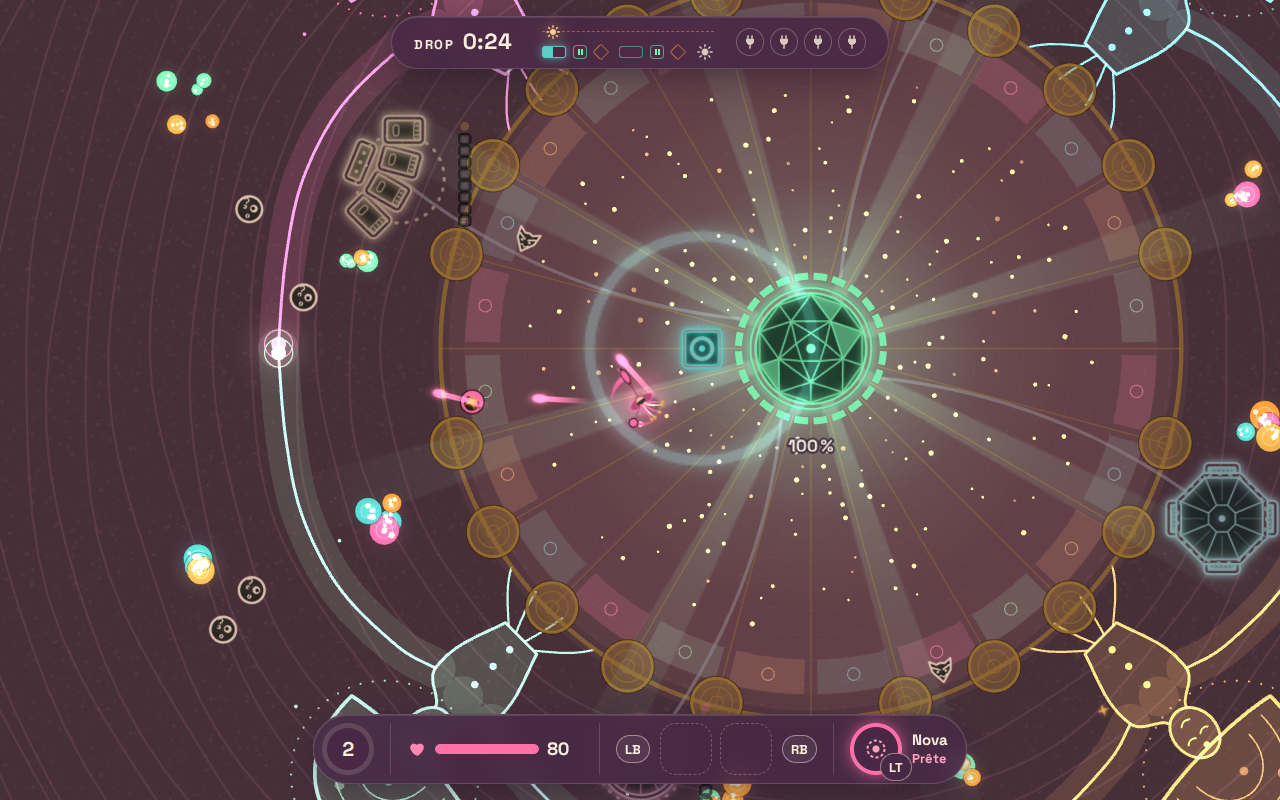
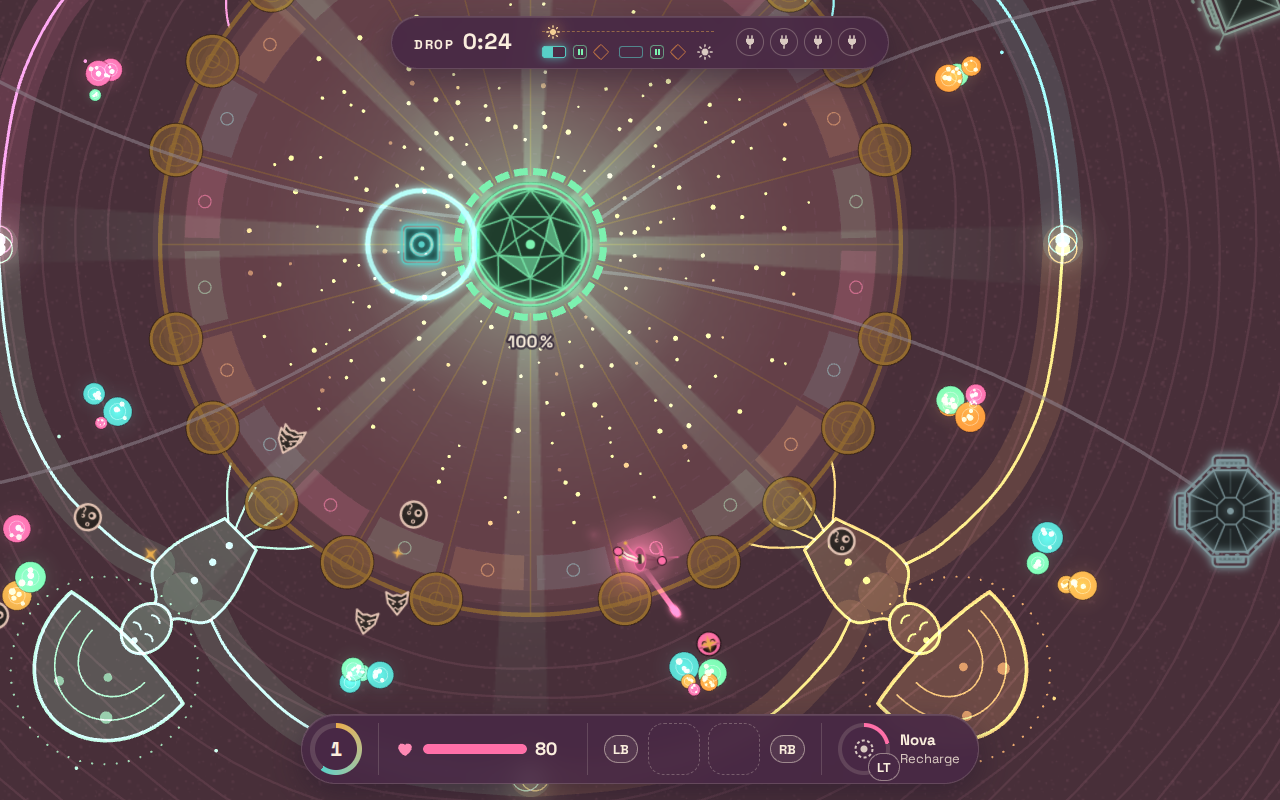
fix: see every Dome speaker whole, clear of the crown, the giants' arms and their hands
The drawn speaker reaches 2.2 times its collision radius (87 for a radius of 40, its LED column and
standby LED): too wide for the ring between the crown and the arms. The four speakers now stand 674
from the core, either side of the east and west entrances, beyond the arms. SPEAKER_REACH is shared
by the data tests, the render tests and the mushroom clusters, which keep off the drawn speakers.

Closes #340

diff --git a/src/render/giants-layout.test.ts b/src/render/giants-layout.test.ts
@@ -1,6 +1,17 @@
+import { Graphics } from 'pixi.js';
 import { describe, expect, it } from 'vitest';
-import { SETS } from '../data/sets';
-import { armPath, clearSpot, clusterReach, giantClusters, layGiants } from './giants-layout';
+import { SETS, SPEAKER_REACH } from '../data/sets';
+import { traceBody } from './giants-body';
+import {
+  type Point,
+  SCALE,
+  armPath,
+  clearSpot,
+  clusterReach,
+  giantClusters,
+  keepClear,
+  layGiants,
+} from './giants-layout';
 
 const dome = SETS.find((set) => set.id === 'dome');
 
@@ -48,9 +59,9 @@ describe('layGiants', () => {
     expect(stones).toHaveLength((dome?.obstacles?.length ?? 0) - posts);
   });
 
-  it('keeps two clusters per giant, clear of every speaker and obstacle', () => {
+  it('keeps two clusters per giant, clear of every drawn speaker and obstacle', () => {
     const center = { x: 800, y: 500 };
-    const avoid = [...(dome?.obstacles ?? []), ...(dome?.speakers ?? [])];
+    const avoid = dome === undefined ? [] : keepClear(dome);
 
     const clusters = giantClusters(layGiants(dome?.obstacles ?? [], center), center, avoid, 30);
 
@@ -70,5 +81,49 @@ describe('layGiants', () => {
     expect(clearSpot({ x: 500, y: 500 }, 60, [speaker])).toEqual({ x: 500, y: 500 });
     const moved = clearSpot({ x: 100, y: 100 }, 60, [speaker]);
     expect(Math.hypot(moved.x - 100, moved.y - 100)).toBeGreaterThanOrEqual(30 + clusterReach(60));
+  });
+
+  it('keeps every drawn speaker off the arm bands, the joined hands and the giants', () => {
+    const center = { x: 800, y: 500 };
+    const giants = layGiants(dome?.obstacles ?? [], center);
+    const body = new Graphics();
+    traceBody(body);
+    const torso = body.getLocalBounds();
+    const toSegment = (at: Point, from: Point, to: Point) => {
+      const length = Math.hypot(to.x - from.x, to.y - from.y) || 1;
+      const along = Math.max(
+        0,
+        Math.min(
+          1,
+          ((at.x - from.x) * (to.x - from.x) + (at.y - from.y) * (to.y - from.y)) / length ** 2,
+        ),
+      );
+      return Math.hypot(
+        at.x - from.x - along * (to.x - from.x),
+        at.y - from.y - along * (to.y - from.y),
+      );
+    };
+
+    expect(dome?.speakers).toHaveLength(4);
+    for (const { id, x, y, radius } of dome?.speakers ?? []) {
+      const reach = radius * SPEAKER_REACH;
+      for (const giant of giants) {
+        for (const arm of [0, 1] as const) {
+          const { points } = armPath(giant, center, arm);
+          const band = Math.max(...giant.arms[arm].stones.map((stone) => stone.radius));
+          for (const [index, to] of points.slice(1).entries()) {
+            const from = points[index] ?? to;
+            expect(toSegment({ x, y }, from, to) - band, id).toBeGreaterThan(reach);
+          }
+        }
+        const dx = x - center.x;
+        const dy = y - center.y;
+        const out = (dx * Math.cos(giant.angle) + dy * Math.sin(giant.angle)) / SCALE;
+        const across = (dy * Math.cos(giant.angle) - dx * Math.sin(giant.angle)) / SCALE;
+        const gapX = Math.max(torso.minX - out, out - torso.maxX, 0);
+        const gapY = Math.max(torso.minY - across, across - torso.maxY, 0);
+        expect(Math.hypot(gapX, gapY) * SCALE, id).toBeGreaterThan(reach);
+      }
+    }
   });
 });

diff --git a/src/data/content.test.ts b/src/data/content.test.ts
@@ -8,6 +8,7 @@ import {
   tempoOf,
 } from '../shared/tempo';
 import { CONTENT } from './content';
+import { SPEAKER_REACH } from './sets';
 import type { ObstacleDefinition, TierDefinition } from './types';
 
 const { classes, enemies, traps, upgrades, sets, bystanders = [] } = CONTENT;
@@ -743,17 +744,29 @@ describe('The Dome', () => {
     }
   });
 
-  it('keeps every speaker out of the passage a boss takes along an entrance axis', () => {
+  it('keeps every drawn speaker out of the passage a boss takes along an entrance axis', () => {
     const speakers = dome?.speakers ?? [];
 
     expect(speakers).toHaveLength(4);
     for (const speaker of speakers) {
       const offAxis = Math.min(Math.abs(speaker.x - center.x), Math.abs(speaker.y - center.y));
-      expect(offAxis - speaker.radius, speaker.id).toBeGreaterThanOrEqual(biggestBoss);
+      expect(offAxis - speaker.radius * SPEAKER_REACH, speaker.id).toBeGreaterThanOrEqual(
+        biggestBoss,
+      );
     }
   });
 
-  it('keeps the core, the speakers and the arena edge clear of every obstacle', () => {
+  it('draws every speaker whole inside the arena', () => {
+    for (const { id, x, y, radius } of dome?.speakers ?? []) {
+      const reach = radius * SPEAKER_REACH;
+      expect(
+        Math.min(x, y, (dome?.arena.width ?? 0) - x, (dome?.arena.height ?? 0) - y),
+        id,
+      ).toBeGreaterThanOrEqual(reach);
+    }
+  });
+
+  it('keeps the core, the drawn speakers and the arena edge clear of every obstacle', () => {
     for (const obstacle of obstacles) {
       expect(distance(obstacle, center) - obstacle.radius).toBeGreaterThan(dome?.core.radius ?? 0);
       expect(obstacle.x - obstacle.radius).toBeGreaterThanOrEqual(0);
@@ -761,7 +774,9 @@ describe('The Dome', () => {
       expect(obstacle.x + obstacle.radius).toBeLessThanOrEqual(dome?.arena.width ?? 0);
       expect(obstacle.y + obstacle.radius).toBeLessThanOrEqual(dome?.arena.height ?? 0);
       for (const speaker of dome?.speakers ?? []) {
-        expect(distance(obstacle, speaker)).toBeGreaterThan(obstacle.radius + speaker.radius);
+        expect(distance(obstacle, speaker)).toBeGreaterThan(
+          obstacle.radius + speaker.radius * SPEAKER_REACH,
+        );
       }
     }
   });

diff --git a/src/render/speakers.test.ts b/src/render/speakers.test.ts
@@ -1,4 +1,5 @@
 import { describe, expect, it } from 'vitest';
+import { SPEAKER_REACH } from '../data/sets';
 import { TICKS_PER_BAR, TICKS_PER_BEAT } from '../shared/tempo';
 import { SPEAKER_TOKENS, mixColor, plugShare, speakerToken } from './speaker-kit';
 import { SPEAKER_EXTENTS } from './speaker-leds';
@@ -40,6 +41,26 @@ describe('LED column and standby', () => {
       expect(leds.visible).toBe(true);
       expect(leds.position).toMatchObject({ x: def.x, y: def.y });
       expect(leds.getLocalBounds().minX).toBeGreaterThan(SPEAKER_EXTENTS[def.id] ?? Infinity);
+    }
+  });
+
+  it('keeps the LED column and the standby LED of every drawing within its reach', () => {
+    const ctx = context();
+
+    createSpeakers(ctx).update(stateWith(['off', 'off', 'off', 'off']), 0, frameAt(0.4));
+
+    for (const [index, def] of FIXTURE_SPEAKERS.entries()) {
+      const reach = 40 * SPEAKER_REACH;
+      const { minX, minY, maxX, maxY } = ledsOf(ctx, index).getLocalBounds();
+      const corners = [minX, maxX].flatMap((x) => [minY, maxY].map((y) => Math.hypot(x, y)));
+      expect(Math.max(...corners), def.id).toBeLessThanOrEqual(reach);
+      const standby = standbyOf(ctx, index);
+      const scale = def.radius / 40;
+      const { width } = standby.getLocalBounds();
+      expect(
+        Math.hypot(standby.x - def.x, standby.y - def.y) / scale + width / 2,
+        def.id,
+      ).toBeLessThanOrEqual(reach);
     }
   });
 

diff --git a/src/data/sets.ts b/src/data/sets.ts
@@ -270,12 +270,17 @@ const DOME_OBSTACLES: readonly ObstacleDefinition[] = [
   }),
 ];
 
-// 400 from the core, a sixteenth of a turn past each entrance axis: between two posts, under an arm, off the passages.
+// How far a speaker's drawing reaches from its centre, as a share of its radius: up to 74 for a radius of 40 for the
+// tarp's pegs, 87 for its LED column and standby LED.
+export const SPEAKER_REACH = 2.2;
+
+// 674 from the core, either side of the east and west entrances, beyond the giants' arms: the crown and the arms
+// leave no room for a whole drawn speaker between them, nor do the arms and the arena's north and south edges.
 const DOME_SPEAKER_SPOTS: Record<string, { x: number; y: number }> = {
-  'dome-chill': { x: 953, y: 130 },
-  foret: { x: 1170, y: 653 },
-  'cercle-acid': { x: 647, y: 870 },
-  sub: { x: 430, y: 347 },
+  'dome-chill': { x: 1430, y: 260 },
+  foret: { x: 1430, y: 740 },
+  'cercle-acid': { x: 170, y: 740 },
+  sub: { x: 170, y: 260 },
 };
 
 // A bar lasts a third longer at the Dome, so the main stage's rules would send fewer bad vibes per

diff --git a/src/render/giants.ts b/src/render/giants.ts
@@ -7,12 +7,12 @@ import type { SimState } from '../sim/state';
 import type { Family, RenderContext } from './context';
 import type { Frame } from './frame';
 import {
-  type Disc,
   type Point,
   SCALE,
   armPath,
   clearSpot,
   giantClusters,
+  keepClear,
   layGiants,
 } from './giants-layout';
 import { traceBody, traceThrough } from './giants-body';
@@ -157,7 +157,7 @@ export function createGiants(ctx: RenderContext, sets: readonly SetDefinition[])
     });
     shadows.fill({ color: 0x000000, alpha: 0.28 });
     root.addChild(...giants.map(({ lines }) => lines), shadows, caps, spots, halos);
-    const avoid: Disc[] = [...(set.obstacles ?? []), ...(set.speakers ?? [])];
+    const avoid = keepClear(set);
     for (const at of giantClusters(layout, center, avoid, GIANT_SPREAD)) {
       cluster(at, GIANT_SPREAD, rng);
     }

diff --git a/src/render/giants-layout.ts b/src/render/giants-layout.ts
@@ -1,4 +1,5 @@
-import type { ObstacleDefinition } from '../data/types';
+import { SPEAKER_REACH } from '../data/sets';
+import type { ObstacleDefinition, SetDefinition } from '../data/types';
 
 export interface Point {
   x: number;
@@ -86,6 +87,14 @@ export function armPath(giant: GiantLayout, center: Point, arm: 0 | 1): ArmPath 
 
 export interface Disc extends Point {
   readonly radius: number;
+}
+
+// What the mushroom clusters keep off: the obstacles, and each speaker as far as its drawing reaches.
+export function keepClear(set: SetDefinition): Disc[] {
+  return [
+    ...(set.obstacles ?? []),
+    ...(set.speakers ?? []).map(({ x, y, radius }) => ({ x, y, radius: radius * SPEAKER_REACH })),
+  ];
 }
 
 // Mushrooms of a cluster land anywhere in a square of this spread, the largest cap included.
